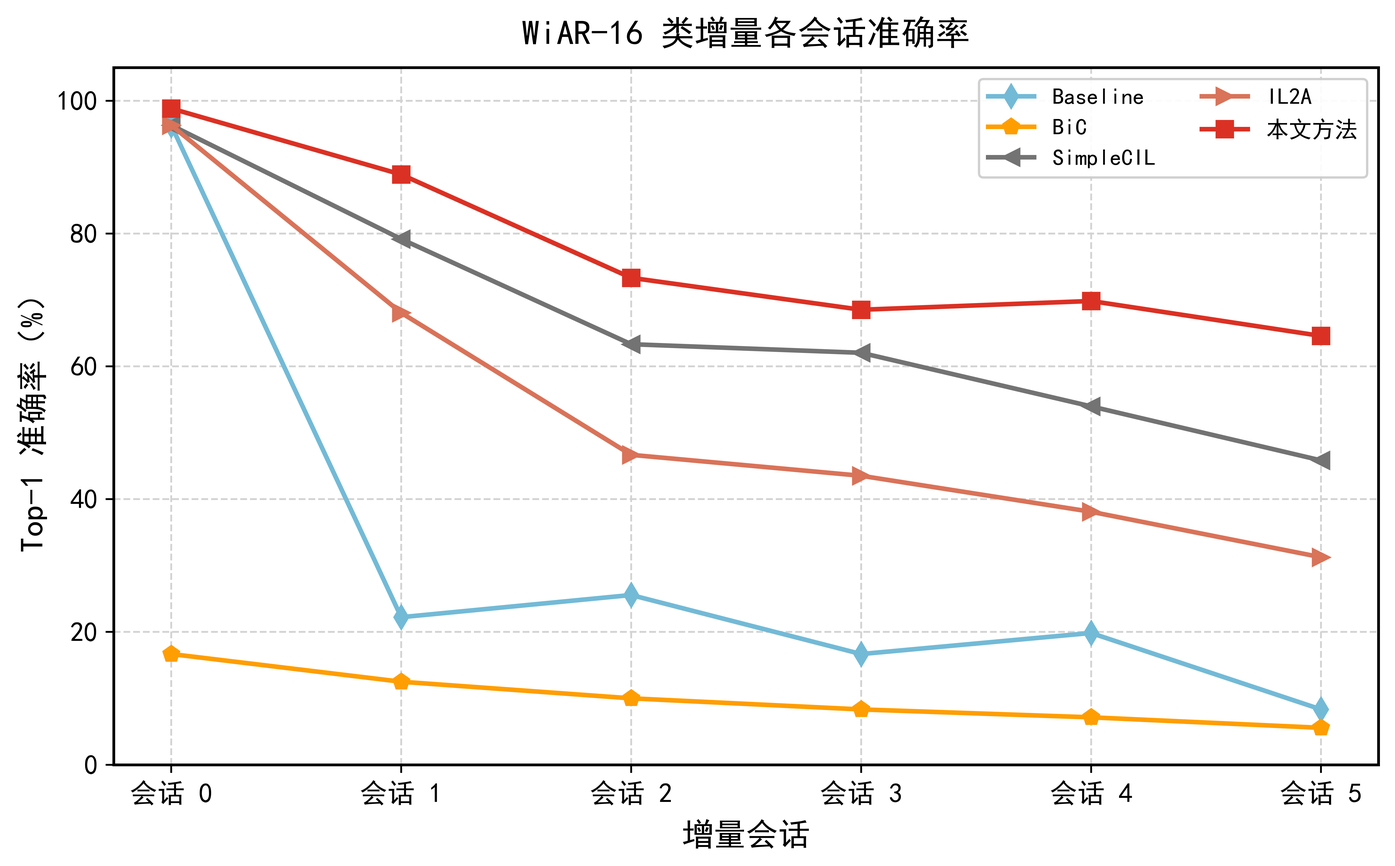
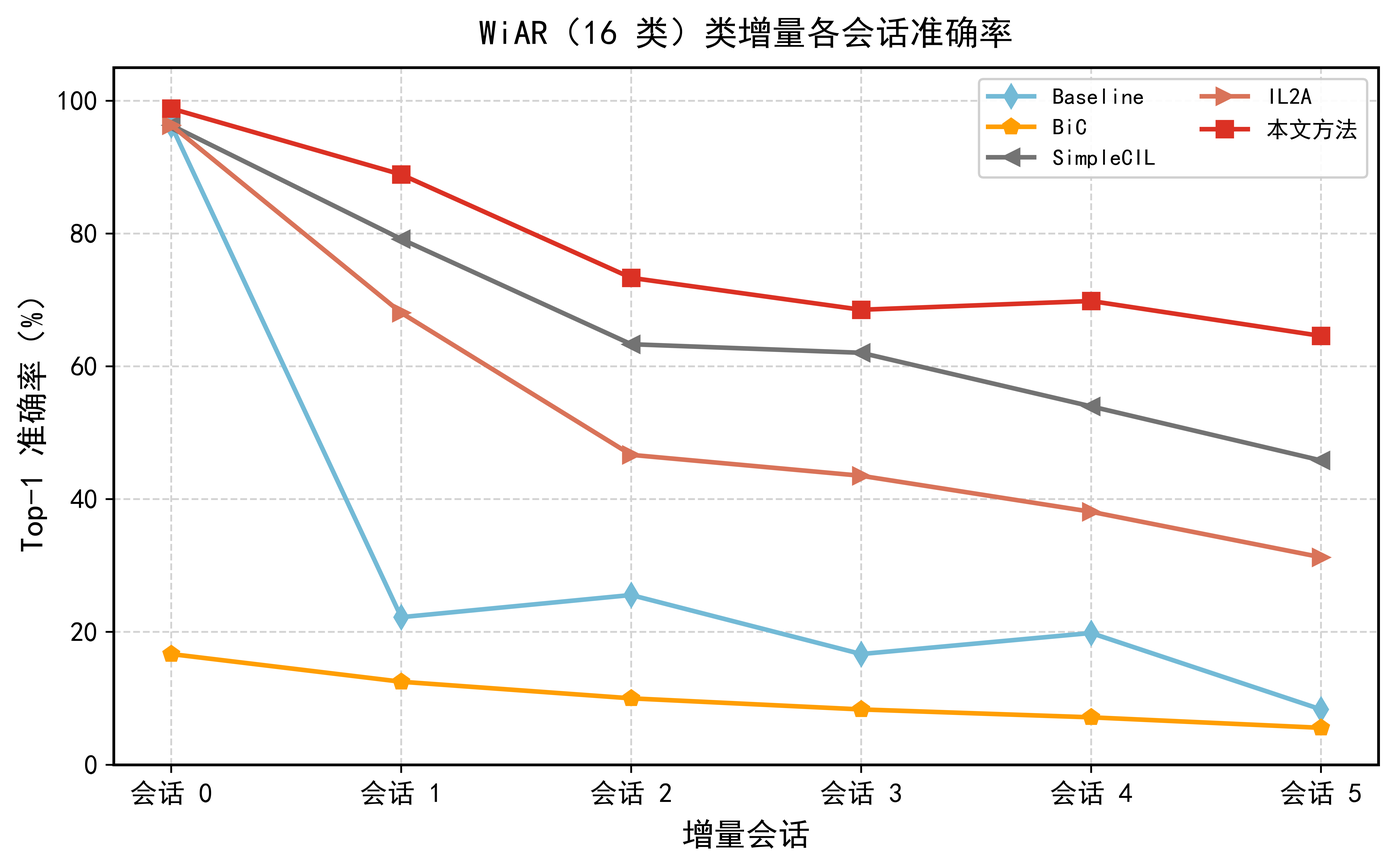
fix WiAR-16 / WiAR

Changed region(s): [[0.3433, 0.0, 0.7178, 0.0623]]

diff --git a/Main_Spine/c3.tex b/Main_Spine/c3.tex
@@ -29,7 +29,7 @@ f^* = \underset{f \in \mathcal{H}}{\arg\min} \mathbb{E}_{(\mathbf{x},y) \sim \ma
 
 若直接用新类别数据对原模型进行微调（即 Finetune 基线），模型往往会发生灾难性遗忘：对新类别的拟合会覆盖旧类别的表示，导致对旧类别的识别能力急剧下降。因此，CIL 的核心挑战在于如何在学习新知识的同时保留旧知识，这对应于神经网络中的稳定性—可塑性困境（stability-plasticity dilemma）\cite{grossberg1982studies,zhou2024cil}。
 
-在本文实验中，以 XRF 数据集为主场景模拟上述 CIL 设置；另在 WiAR 数据集上构造 WiAR-16 类增量设置（详见 3.3.1 节），用于在较小类别规模与不同 CSI 数据分布下检验所提框架的适用性。XRF 数据集包含 55 类室内动作，对应 Wi-Fi CSI 信号经预处理后的 270 维特征。按项目配置，将数据划分为 5 个增量阶段（如图~\ref{fig:xrf-split} 所示）：初始任务 $\mathcal{D}^0$ 包含前 15 类，后续 4 个任务 $\mathcal{D}^1, \ldots, \mathcal{D}^4$ 每个新增 10 类，即类别数依次为 15、25、35、45、55。训练集与测试集按 7:3 比例划分，每个增量阶段训练时仅能使用当前任务数据及记忆库中保存的旧类代表样本。
+在本文实验中，以 XRF 数据集为主场景模拟上述 CIL 设置；另在 WiAR 数据集上构造 16 类类增量设置（详见 3.3.1 节），用于在较小类别规模与不同 CSI 数据分布下检验所提框架的适用性。XRF 数据集包含 55 类室内动作，对应 Wi-Fi CSI 信号经预处理后的 270 维特征。按项目配置，将数据划分为 5 个增量阶段（如图~\ref{fig:xrf-split} 所示）：初始任务 $\mathcal{D}^0$ 包含前 15 类，后续 4 个任务 $\mathcal{D}^1, \ldots, \mathcal{D}^4$ 每个新增 10 类，即类别数依次为 15、25、35、45、55。训练集与测试集按 7:3 比例划分，每个增量阶段训练时仅能使用当前任务数据及记忆库中保存的旧类代表样本。
 
 因此，该设置能够同时考察模型对新增动作类别的接纳能力，以及在有限旧类样本条件下对历史动作类别的保持能力。
 
@@ -208,7 +208,7 @@ E_{n_c} = \frac{1 - \beta^{n_c}}{1 - \beta}
 
 数据集划分。按 3.1 节设定，将 XRF 划分为 5 个类别互不重叠的增量阶段：初始任务 $\mathcal{D}^0$ 含前 15 类，后续 4 个任务 $\mathcal{D}^1$ 至 $\mathcal{D}^4$ 各新增 10 类，类别数依次为 15、25、35、45、55。训练集与测试集按 7:3 划分，即每人每类 14 条入训练集、6 条入测试集。每个增量阶段训练时，模型仅可访问当前任务数据 $\mathcal{D}^t$ 及记忆库 $\mathcal{E}$。记忆库采用 3.2.1 节的类均值最近邻迭代选择构建，每类保留 $m=75$ 个 Exemplar；该数值在保证记忆效果与控制内存占用之间做了折中，经预实验验证后采用。
 
-对于 WiAR 数据集，本文构造 WiAR-16 类增量实验设置。该设置包含 16 个动作类别，初始阶段使用 6 个基础类别进行训练，随后设置 5 个增量阶段，每个阶段新增 2 个此前未见类别，累计类别数依次为 6、8、10、12、14 和 16。与 XRF 实验一致，每个阶段训练结束后均在当前全部已见类别上进行统一测试，不提供任务标识。该划分方式能够在较小类别规模下模拟类别持续扩展过程，并与第四章 WiAR 少样本类增量设置在类别集合和增量粒度上保持一致，便于分析常规类增量学习与少样本类增量学习在样本条件和训练约束上的差异。
+对于 WiAR 数据集，本文构造 16 类类增量实验设置。该设置包含 16 个动作类别，初始阶段使用 6 个基础类别进行训练，随后设置 5 个增量阶段，每个阶段新增 2 个此前未见类别，累计类别数依次为 6、8、10、12、14 和 16。与 XRF 实验一致，每个阶段训练结束后均在当前全部已见类别上进行统一测试，不提供任务标识。该划分方式能够在较小类别规模下模拟类别持续扩展过程，并与第四章 WiAR 少样本类增量设置在类别集合和增量粒度上保持一致，便于分析常规类增量学习与少样本类增量学习在样本条件和训练约束上的差异。
 
 \begin{table}[h]
   \centering
@@ -362,7 +362,7 @@ CREATE\cite{chen2025create} 在 XRF 上 Session 0--4 依次为 87.00\%、70.31\%
 
 本文方法在 Session 4 达到 73.57\%，在表~\ref{tab:main-compare} 中高于所列各对比方法。相较于 Baseline，性能下降仅 17.95 个百分点，降幅缩小 55.47 个百分点；相较于 iCaRL、BiC、UCIR，Session 4 分别提升 10.08、29.22、9.99 个百分点；相较于 SimpleCIL、IL2A、CREATE，Session 4 分别提升 43.05、35.36、14.40 个百分点。从各 Session 的走势看，本文方法在 Session 1--2 保持较高准确率（80.47\%、74.24\%），Session 3 略降至 72.72\%，Session 4 回升至 73.57\%。Session 4 相较 Session 3 出现小幅回升。结合后续消融结果推测，这一现象可能与分类器扩展后的再平衡及蒸馏巩固过程有关，但其具体贡献仍需结合更细粒度实验进一步验证。样本重放对本文性能的贡献见 3.4.3 节。
 
-从机制层面归纳，表~\ref{tab:main-compare} 所呈现的分化可概括为三类因素：其一，Baseline 仅用新类数据更新全参数，旧类决策边界缺乏持续监督，因而在 CSI 时序特征上表现为快速遗忘；其二，iCaRL、BiC、UCIR 等虽引入回放、偏差校正或特征约束，但在长序列增量与新旧样本数量严重失衡的条件下，仍易受 logits 尺度偏移、表示容量竞争与时序模式差异等因素影响，中后期性能波动或下滑相对更为明显；其三，本文在冻结骨干的前提下以扩展分类器接纳新类，并以记忆样本与双边蒸馏将扩展阶段知识回写到统一主干，使多阶段更新在「旧类边界可回顾、新类接入有通道、跨阶段知识可迁移」三方面形成互补。结合 XRF 与 WiAR-16 两组实验可见，该流程在不同类别规模与 CSI 数据分布下均能保持相对稳定的增量表现，但并不能据此认为已穷尽所有环境扰动与协议变体。
+从机制层面归纳，表~\ref{tab:main-compare} 所呈现的分化可概括为三类因素：其一，Baseline 仅用新类数据更新全参数，旧类决策边界缺乏持续监督，因而在 CSI 时序特征上表现为快速遗忘；其二，iCaRL、BiC、UCIR 等虽引入回放、偏差校正或特征约束，但在长序列增量与新旧样本数量严重失衡的条件下，仍易受 logits 尺度偏移、表示容量竞争与时序模式差异等因素影响，中后期性能波动或下滑相对更为明显；其三，本文在冻结骨干的前提下以扩展分类器接纳新类，并以记忆样本与双边蒸馏将扩展阶段知识回写到统一主干，使多阶段更新在「旧类边界可回顾、新类接入有通道、跨阶段知识可迁移」三方面形成互补。结合 XRF 与 WiAR（16 类）两组实验可见，该流程在不同类别规模与 CSI 数据分布下均能保持相对稳定的增量表现，但并不能据此认为已穷尽所有环境扰动与协议变体。
 
 图~\ref{fig:accn-main} 给出各方法的 ACCN 曲线。
 
@@ -379,7 +379,7 @@ CREATE\cite{chen2025create} 在 XRF 上 Session 0--4 依次为 87.00\%、70.31\%
 
 \begin{table}[h]
   \centering
-  \caption{WiAR-16 数据集上的类增量学习对比实验（CNN Top1 准确率，\%）}
+  \caption{WiAR 数据集上的类增量学习对比实验（16 类，CNN Top1 准确率，\%）}
   \label{tab:wiar-cil-compare}
   \begin{tblr}{
     colspec={X[l] X[c] X[c] X[c] X[c] X[c] X[c] X[c]},
@@ -401,11 +401,11 @@ CREATE\cite{chen2025create} 在 XRF 上 Session 0--4 依次为 87.00\%、70.31\%
 \begin{figure}[h]
   \centering
   \includegraphics[width=0.75\textwidth]{fig3-11-wiar-cil-sessions.pdf}
-  \caption{WiAR-16 类增量各会话 Top-1 准确率对比}
+  \caption{WiAR（16 类）类增量各会话 Top-1 准确率对比}
   \label{fig:wiar-cil-sessions}
 \end{figure}
 
-表~\ref{tab:wiar-cil-compare} 与图~\ref{fig:wiar-cil-sessions} 给出了 WiAR 数据集上的类增量对比结果。可观察到，Baseline 在 Session 0 取得 96.30\% 的准确率，但随着新类别持续加入，其末次阶段准确率下降至 8.33\%，说明仅依赖当前阶段数据进行微调会造成严重灾难性遗忘。BiC 在该设置下整体表现较弱，末次阶段准确率为 5.56\%，说明偏差校正机制在该 WiAR 输入与训练设置下未能有效维持新旧类平衡。SimpleCIL 和 IL2A 相较 Baseline 与 BiC 表现更稳定，末次阶段准确率分别为 45.83\% 和 31.25\%，但随着增量阶段推进仍存在明显性能下降。相比之下，本文方法在 WiAR-16 设置下取得 77.33\% 的平均准确率和 64.58\% 的末次阶段准确率，分别高于 SimpleCIL 10.55 个百分点和 18.75 个百分点。该结果说明，回放—扩展—巩固框架不仅适用于 XRF 的复杂多类别场景，也能够在类别规模较小、数据分布不同的 WiAR 数据集上保持较好的增量稳定性。结合 XRF 与 WiAR 两组实验表明，所提方法对不同 Wi-Fi CSI 数据集具有一定适用性。
+表~\ref{tab:wiar-cil-compare} 与图~\ref{fig:wiar-cil-sessions} 给出了 WiAR 数据集上的类增量对比结果。可观察到，Baseline 在 Session 0 取得 96.30\% 的准确率，但随着新类别持续加入，其末次阶段准确率下降至 8.33\%，说明仅依赖当前阶段数据进行微调会造成严重灾难性遗忘。BiC 在该设置下整体表现较弱，末次阶段准确率为 5.56\%，说明偏差校正机制在该 WiAR 输入与训练设置下未能有效维持新旧类平衡。SimpleCIL 和 IL2A 相较 Baseline 与 BiC 表现更稳定，末次阶段准确率分别为 45.83\% 和 31.25\%，但随着增量阶段推进仍存在明显性能下降。相比之下，本文方法在 WiAR（16 类）设置下取得 77.33\% 的平均准确率和 64.58\% 的末次阶段准确率，分别高于 SimpleCIL 10.55 个百分点和 18.75 个百分点。该结果说明，回放—扩展—巩固框架不仅适用于 XRF 的复杂多类别场景，也能够在类别规模较小、数据分布不同的 WiAR 数据集上保持较好的增量稳定性。结合 XRF 与 WiAR 两组实验表明，所提方法对不同 Wi-Fi CSI 数据集具有一定适用性。
 
 骨干网络对比。表~\ref{tab:backbone-compare} 对比了 ResNet-18 与 UNet 两种骨干在同等实验设置下的表现。两者均为 1D 时序结构，可适配 270 维 CSI 特征输入，区别在于特征提取方式：ResNet 通过残差块堆叠进行层级特征抽取；UNet 采用编码器—解码器结构，在降采样与上采样过程中保留多尺度信息。
 
@@ -550,5 +550,5 @@ KD 与 BKD 对比。表~\ref{tab:kd-compare} 对比了标准知识蒸馏（KD）
 
 \xsection{本章小结}{Summary}
 
-本章面向新增类样本相对充足的 Wi-Fi CSI 类增量动作识别场景，提出了回放—扩展—巩固框架。该框架通过类均值选样构建记忆库，在冻结骨干网络的基础上扩展分类器以接入新类别，并利用教师—学生双边知识蒸馏完成新旧类知识巩固。实验结果表明，在 XRF 的 15+10$\times$4 类增量设置下，本文方法末次增量阶段准确率达到 73.57\%；在 WiAR-16 设置下，平均准确率和末次阶段准确率分别达到 77.33\% 和 64.58\%，整体优于主要对比方法。消融实验进一步说明，样本重放、知识巩固、UNet 骨干与双边知识蒸馏均对增量稳定性具有积极作用。总体来看，所提方法能够在类别持续扩展过程中较好兼顾新类学习与旧类保持，为新增类样本充足条件下的 Wi-Fi 感知模型持续更新提供了有效方案。
+本章面向新增类样本相对充足的 Wi-Fi CSI 类增量动作识别场景，提出了回放—扩展—巩固框架。该框架通过类均值选样构建记忆库，在冻结骨干网络的基础上扩展分类器以接入新类别，并利用教师—学生双边知识蒸馏完成新旧类知识巩固。实验结果表明，在 XRF 的 15+10$\times$4 类增量设置下，本文方法末次增量阶段准确率达到 73.57\%；在 WiAR（16 类）设置下，平均准确率和末次阶段准确率分别达到 77.33\% 和 64.58\%，整体优于主要对比方法。消融实验进一步说明，样本重放、知识巩固、UNet 骨干与双边知识蒸馏均对增量稳定性具有积极作用。总体来看，所提方法能够在类别持续扩展过程中较好兼顾新类学习与旧类保持，为新增类样本充足条件下的 Wi-Fi 感知模型持续更新提供了有效方案。
 

diff --git a/Main_Spine/c5.tex b/Main_Spine/c5.tex
@@ -8,7 +8,7 @@
 
 （1）研究对象与任务界定。本文讨论的并非固定类别集合下的一次性离线训练与识别，而是面向类别持续扩展条件下的 Wi-Fi CSI 室内动作识别：模型需在类别集合随应用逐步扩大的前提下完成更新，并在测试阶段对截至当前的全部已见类别统一判别。围绕上述目标，本文将问题划分为类增量学习与少样本类增量学习两类典型情形，前者对应新增类样本相对充足、可通过记忆库等方式保留旧类信息的设定，后者对应增量阶段每类仅有极少标注、旧类原始训练数据往往难以完整依赖的设定；两类情形体现了从「样本相对充足」到「样本极度稀缺」的递进关系，也为后续方法设计提供了不同的约束界面。
 
-（2）第三章类增量学习方法与实验结论。针对新增类样本相对充足的类增量学习场景，本文提出回放—扩展—巩固框架：通过基于类均值的代表样本选取构建记忆库并完成旧类回放；在冻结 CSI 特征提取骨干的前提下扩展分类器以接入新类别，减弱新类梯度对旧类表征空间的直接破坏；进而采用教师—学生结构与双边知识蒸馏将扩展阶段积累的新旧类知识巩固回单一主干，并结合平衡微调与分类器重训练等环节缓解增量阶段的新旧类样本不平衡。在 XRF 与 WiAR 两个 Wi-Fi CSI 动作识别数据集上的实验表明，该框架在多阶段类别扩展过程中能够缓解灾难性遗忘并保持较好的增量稳定性：在 XRF 上末次增量阶段准确率达到 73.57\%；在 WiAR-16 类增量设置下，平均准确率达到 77.33\%，末次阶段准确率达到 64.58\%。上述结果表明，在可保留有限旧类代表样本的条件下，通过回放、扩展与巩固的衔接，能够在持续接入新类的同时维持整体判别能力。
+（2）第三章类增量学习方法与实验结论。针对新增类样本相对充足的类增量学习场景，本文提出回放—扩展—巩固框架：通过基于类均值的代表样本选取构建记忆库并完成旧类回放；在冻结 CSI 特征提取骨干的前提下扩展分类器以接入新类别，减弱新类梯度对旧类表征空间的直接破坏；进而采用教师—学生结构与双边知识蒸馏将扩展阶段积累的新旧类知识巩固回单一主干，并结合平衡微调与分类器重训练等环节缓解增量阶段的新旧类样本不平衡。在 XRF 与 WiAR 两个 Wi-Fi CSI 动作识别数据集上的实验表明，该框架在多阶段类别扩展过程中能够缓解灾难性遗忘并保持较好的增量稳定性：在 XRF 上末次增量阶段准确率达到 73.57\%；在 WiAR（16 类）类增量设置下，平均准确率达到 77.33\%，末次阶段准确率达到 64.58\%。上述结果表明，在可保留有限旧类代表样本的条件下，通过回放、扩展与巩固的衔接，能够在持续接入新类的同时维持整体判别能力。
 
 （3）第四章少样本类增量学习方法与实验结论。针对新增类样本极少的少样本类增量学习场景，本文提出基于时序增强与图注意力的学习方法：利用多尺度时序编码器与时序注意力融合模块强化 CSI 动作序列的时序表征；在增量阶段通过增强图注意力网络建模类别原型之间的关系；并采用双分类器架构融合不同来源的判别信息，以缓解新旧类 logits 偏置与类别级过拟合。在 XRF 的 5-way 1-shot 设定下，本文方法末次增量会话准确率达到 74.24\%，平均准确率达到 78.48\%；在 WiAR 数据集上平均准确率为 75.30\%，末次会话准确率为 61.81\%。这表明在增量监督极为稀疏、难以依赖旧类原始数据的条件下，结合 CSI 时序特性进行表征增强与类别关系建模，仍有助于提升新类适应能力并维持对旧类的判别。
 

diff --git a/Main_Miscellaneous/abstract_eng.tex b/Main_Miscellaneous/abstract_eng.tex
@@ -7,7 +7,7 @@
 
     For the class-incremental learning scenario, this thesis proposes a Replay-Expansion-Consolidation framework. Representative old-class samples are preserved through memory replay, new categories are incorporated by combining backbone freezing with classifier expansion, and old and new knowledge is consolidated through a teacher-student structure with bilateral knowledge distillation. This design alleviates catastrophic forgetting and the distribution imbalance between old and new classes. For the few-shot class-incremental learning scenario, this thesis proposes a learning method based on temporal enhancement and graph attention. Multi-scale temporal encoding and temporal attention fusion are used to enhance CSI temporal representations, an enhanced graph attention network is employed to model relations among class prototypes during incremental sessions, and a dual-classifier architecture is adopted to reduce old-new class bias and class-level overfitting.
 
-    Experiments on the XRF and WiAR public Wi-Fi action recognition datasets show that the proposed class-incremental learning method maintains favorable stability during multi-stage category expansion. It achieves 73.57\% accuracy at the final incremental stage on XRF; under the WiAR-16 class-incremental protocol, it obtains an average accuracy of 77.33\% and a final-stage accuracy of 64.58\%. Under the 5-way 1-shot setting on XRF, the proposed few-shot class-incremental learning method achieves 74.24\% accuracy at the final session and an average accuracy of 78.48\%. On WiAR, it obtains an average accuracy of 75.30\% and a final-session accuracy of 61.81\%, outperforming CEC, FACT, C-FSCIL, DyCR, and other baselines overall. In summary, this thesis proposes continual learning methods for Wi-Fi CSI-based action recognition from the perspectives of class-incremental learning and few-shot class-incremental learning, providing a feasible solution for the continual updating of Wi-Fi sensing systems in dynamic scenarios.
+    Experiments on the XRF and WiAR public Wi-Fi action recognition datasets show that the proposed class-incremental learning method maintains favorable stability during multi-stage category expansion. It achieves 73.57\% accuracy at the final incremental stage on XRF; under the WiAR 16-class class-incremental protocol, it obtains an average accuracy of 77.33\% and a final-stage accuracy of 64.58\%. Under the 5-way 1-shot setting on XRF, the proposed few-shot class-incremental learning method achieves 74.24\% accuracy at the final session and an average accuracy of 78.48\%. On WiAR, it obtains an average accuracy of 75.30\% and a final-session accuracy of 61.81\%, outperforming CEC, FACT, C-FSCIL, DyCR, and other baselines overall. In summary, this thesis proposes continual learning methods for Wi-Fi CSI-based action recognition from the perspectives of class-incremental learning and few-shot class-incremental learning, providing a feasible solution for the continual updating of Wi-Fi sensing systems in dynamic scenarios.
 
     \englishkeywordstype{Wi-Fi CSI; Indoor action recognition; Continual learning; Class-incremental learning; Few-shot class-Incremental learning}{Application Research}
 

diff --git a/Main_Spine/c1.tex b/Main_Spine/c1.tex
@@ -48,9 +48,9 @@
 
 围绕上述两类持续更新场景，本文开展了对应的方法设计与实验研究，主要工作如下：
 
-1）针对类增量学习场景，提出回放—扩展—巩固的学习框架，通过类均值选样记忆回放、冻结骨干下的分类器扩展以及双边知识蒸馏巩固缓解灾难性遗忘。本文将重放、扩展与巩固组织为闭环流程，在 XRF 与 WiAR 上验证表明，该流程在多种类别规模与 CSI 数据分布下均具较好增量稳定性；XRF 上末阶段（Session 4）准确率达 73.57\%，WiAR-16 上末阶段与平均准确率分别为 64.58\%、77.33\%，均优于文中所列主要对比方法（见第三章）。
+1）针对类增量学习场景，提出回放—扩展—巩固的学习框架，通过类均值选样记忆回放、冻结骨干下的分类器扩展以及双边知识蒸馏巩固缓解灾难性遗忘。本文将重放、扩展与巩固组织为闭环流程，在 XRF 与 WiAR 上验证表明，该流程在多种类别规模与 CSI 数据分布下均具较好增量稳定性；XRF 上末阶段（Session 4）准确率达 73.57\%，WiAR（16 类）上末阶段与平均准确率分别为 64.58\%、77.33\%，均优于文中所列主要对比方法（见第三章）。
 
-2）针对少样本类增量学习场景，提出基于时序增强与图注意力的学习方案，通过多尺度时序编码、时序注意力融合、增强图注意力网络与双分类器架构，提升少样本条件下的新类适应能力与旧类保持能力。在「增量侧每类仅极少标注、且主实验不依赖旧类原始数据回放」的条件下，模型除灾难性遗忘外，还需应对原型估计不稳、新旧类 logits 偏置与类别级过拟合等相互耦合的问题；因此方法设计需同时强化 CSI 时序表征、类别间关系建模与分类器融合。在 XRF 5-way 1-shot 与 WiAR16 设定下的实验表明，末会话准确率、PD 与 AA 等指标优于多种对照（详见第四章），并引入 DyCR 等近年方法作为对比。
+2）针对少样本类增量学习场景，提出基于时序增强与图注意力的学习方案，通过多尺度时序编码、时序注意力融合、增强图注意力网络与双分类器架构，提升少样本条件下的新类适应能力与旧类保持能力。在「增量侧每类仅极少标注、且主实验不依赖旧类原始数据回放」的条件下，模型除灾难性遗忘外，还需应对原型估计不稳、新旧类 logits 偏置与类别级过拟合等相互耦合的问题；因此方法设计需同时强化 CSI 时序表征、类别间关系建模与分类器融合。在 XRF 5-way 1-shot 与 WiAR（16 类）设定下的实验表明，末会话准确率、PD 与 AA 等指标优于多种对照（详见第四章），并引入 DyCR 等近年方法作为对比。
 
 \xsection{论文的组织结构}{Structure of Thesis}
 

diff --git a/Main_Miscellaneous/abstract_chs.tex b/Main_Miscellaneous/abstract_chs.tex
@@ -7,7 +7,7 @@
 
 针对类增量学习场景，本文提出一种回放—扩展—巩固框架。该方法通过记忆库重放保留旧类代表样本，利用冻结骨干与分类器扩展实现新类别接入，并结合教师—学生结构与双边知识蒸馏完成新旧类知识巩固，以缓解灾难性遗忘和新旧类分布失衡。针对少样本类增量学习场景，本文提出一种基于时序增强与图注意力的学习方法。该方法利用多尺度时序编码和时序注意力融合增强 CSI 动作时序表征，在增量阶段通过增强图注意力网络建模类别原型关系，并结合双分类器架构缓解新旧类偏置和类别级过拟合。
 
-在 XRF 与 WiAR 两个公开 Wi-Fi 动作识别数据集上的实验结果表明，所提类增量学习方法在多阶段类别扩展过程中具有较好的增量稳定性。其中，在 XRF 数据集上末次增量阶段准确率达到 73.57\%；在 WiAR-16 类增量设置下，平均准确率达到 77.33\%，末次阶段准确率达到 64.58\%。所提少样本类增量学习方法在 XRF 的 5-way 1-shot 设定下末次增量会话准确率达到 74.24\%，平均准确率达到 78.48\%；在 WiAR 数据集上平均准确率为 75.30\%，末次会话准确率为 61.81\%，整体优于 CEC、FACT、C-FSCIL、DyCR 等对比方法。综上，本文从类增量学习和少样本类增量学习两个层面提出面向 Wi-Fi CSI 动作识别的持续学习方法，为动态场景下 Wi-Fi 感知系统的持续更新提供了可行思路。
+在 XRF 与 WiAR 两个公开 Wi-Fi 动作识别数据集上的实验结果表明，所提类增量学习方法在多阶段类别扩展过程中具有较好的增量稳定性。其中，在 XRF 数据集上末次增量阶段准确率达到 73.57\%；在 WiAR（16 类）类增量设置下，平均准确率达到 77.33\%，末次阶段准确率达到 64.58\%。所提少样本类增量学习方法在 XRF 的 5-way 1-shot 设定下末次增量会话准确率达到 74.24\%，平均准确率达到 78.48\%；在 WiAR 数据集上平均准确率为 75.30\%，末次会话准确率为 61.81\%，整体优于 CEC、FACT、C-FSCIL、DyCR 等对比方法。综上，本文从类增量学习和少样本类增量学习两个层面提出面向 Wi-Fi CSI 动作识别的持续学习方法，为动态场景下 Wi-Fi 感知系统的持续更新提供了可行思路。
 
 \chinesekeywordstype{Wi-Fi CSI；室内动作识别；持续学习；类增量学习；少样本类增量学习}{应用研究}
 

diff --git a/plot_ch3_figures.py b/plot_ch3_figures.py
@@ -171,7 +171,7 @@ ax.legend(fontsize=11, loc="upper left", framealpha=0.9)
 save_fig(fig, "fig3-10-accn-compress.pdf")
 
 
-# ── 图 3-11: WiAR-16 类增量各会话 Top-1 准确率（与 tab:wiar-cil-compare 一致）──
+# ── 图 3-11: WiAR（16 类）类增量各会话 Top-1 准确率（与 tab:wiar-cil-compare 一致）──
 sessions_wiar = ["会话 0", "会话 1", "会话 2", "会话 3", "会话 4", "会话 5"]
 wiar_baseline = [96.30, 22.22, 25.56, 16.67, 19.84, 8.33]
 wiar_bic = [16.67, 12.50, 10.00, 8.33, 7.14, 5.56]
@@ -193,7 +193,7 @@ ax.tick_params(axis="both", labelsize=12)
 ax.grid(color="lightgray", linewidth=0.8, linestyle="--")
 for spine in ax.spines.values():
     spine.set_linewidth(1.2)
-ax.set_title("WiAR-16 类增量各会话准确率", fontproperties=_FP_TITLE, pad=10)
+ax.set_title("WiAR（16 类）类增量各会话准确率", fontproperties=_FP_TITLE, pad=10)
 ax.legend(fontsize=10, ncol=2, loc="upper right", framealpha=0.92)
 fig.tight_layout()
 for ext in (".pdf", ".png"):

diff --git a/main.tex b/main.tex
@@ -33,6 +33,8 @@
                         %            they will always not show header and page number.
 ]{XJTU-thesis}
 
+% 表 4-8 等：勾选使用西文主字体（如 TIMES.TTF）中的 U+2713，避免依赖 AMS 符号字形
+\newcommand{\timescheck}{{\rmfamily\symbol{"2713}}}
 
 
 %%%%%%%%%%%%%%%%%%%%%%%%%%%%%%%%%%%%%%%%%%%%%%%%%
